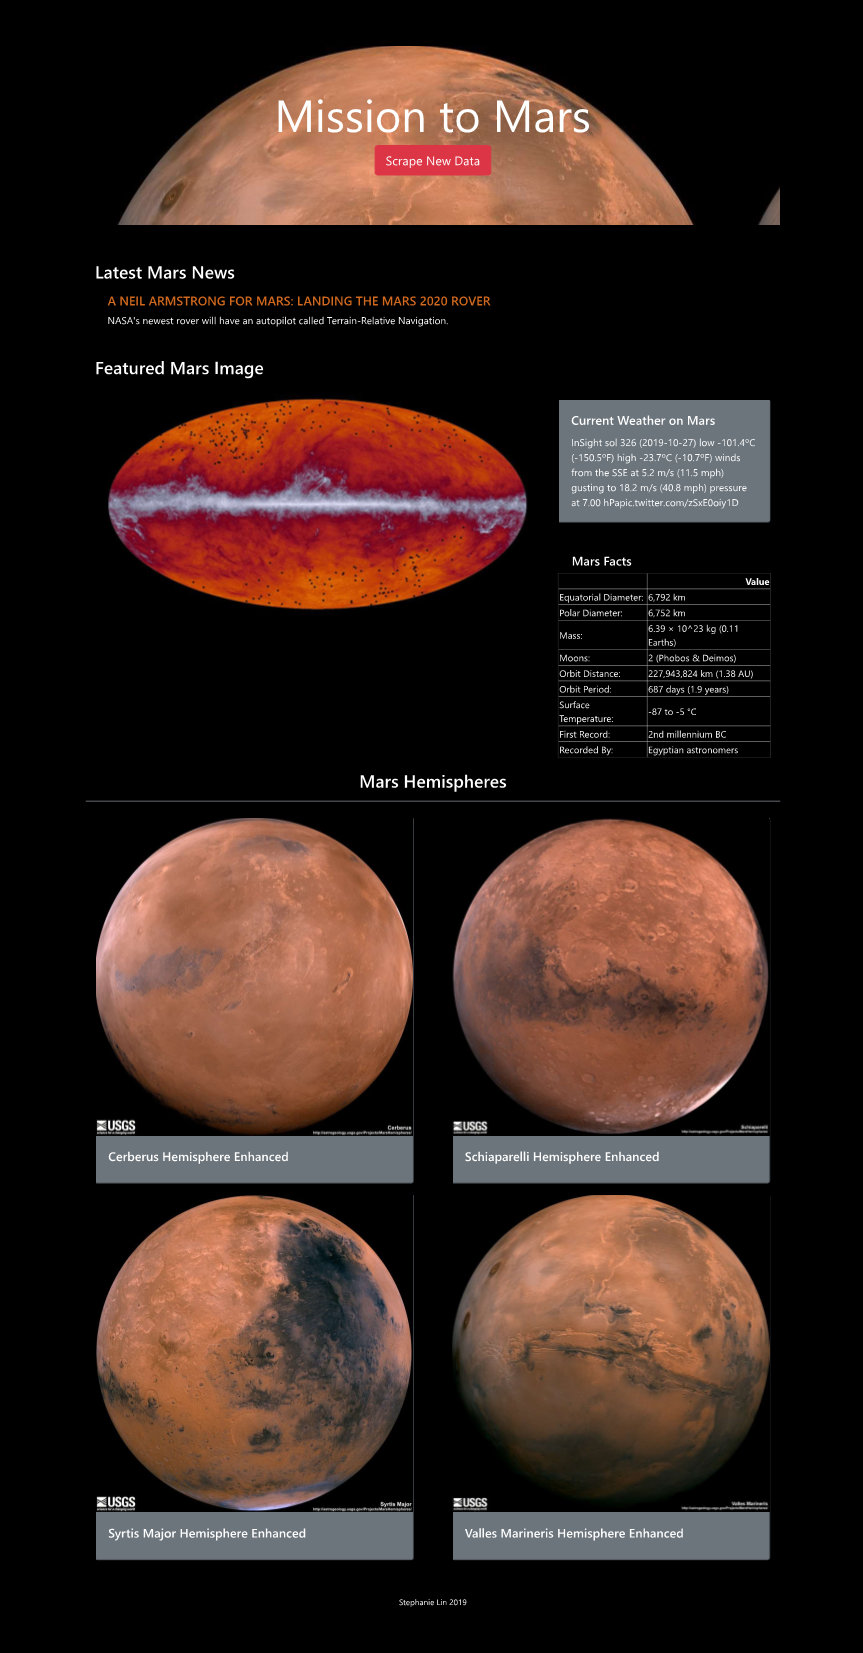
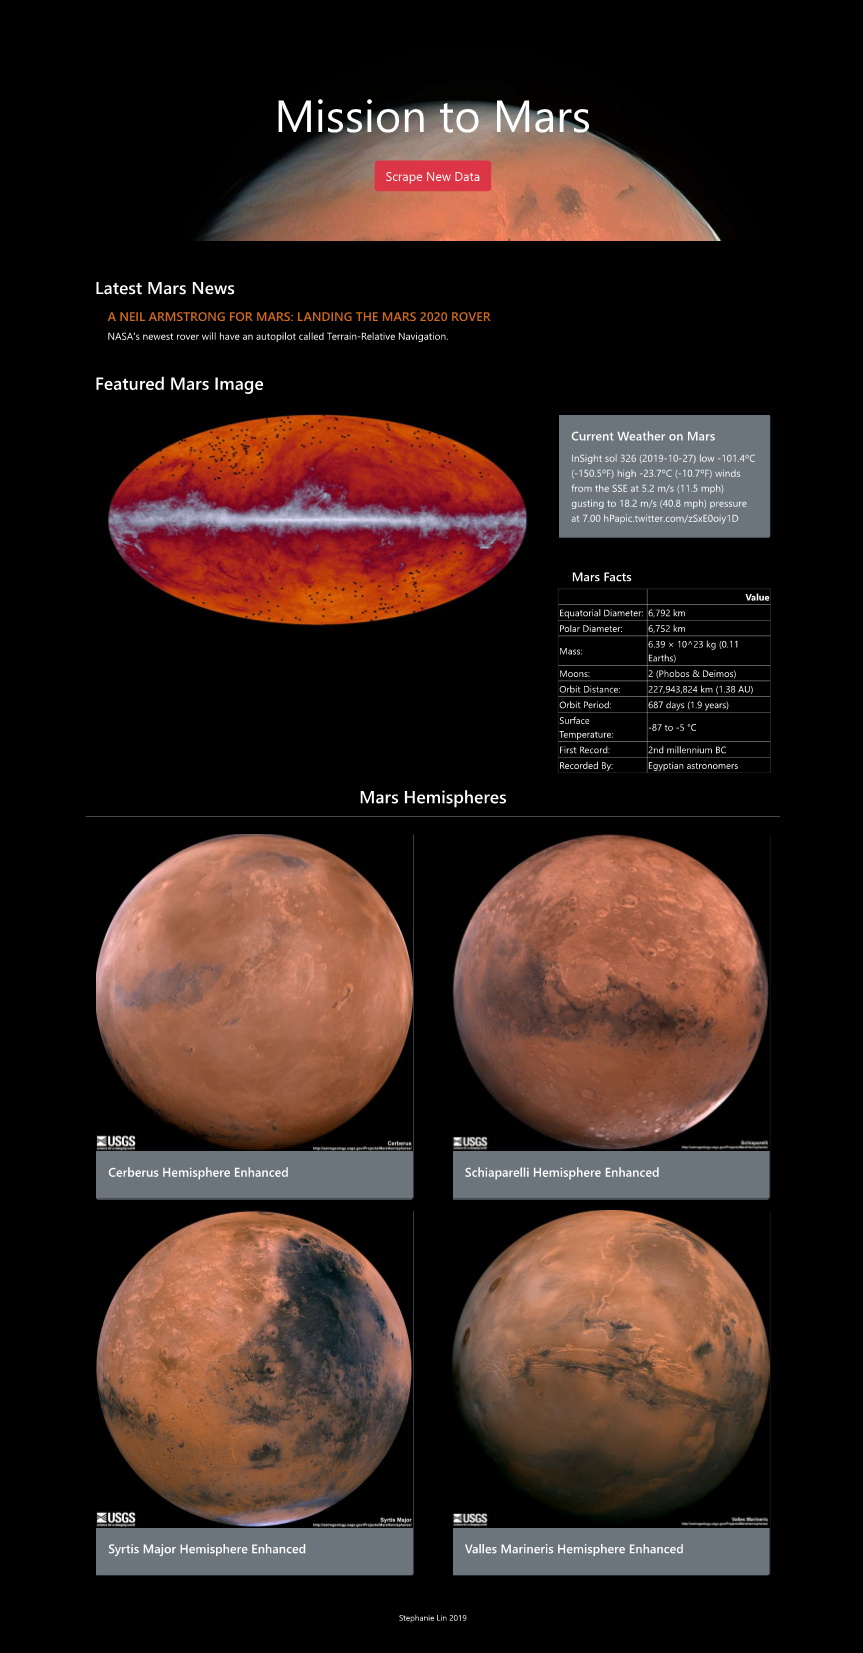
html image settings updated

Changed region(s): [[0.0904, 0.0309, 0.9038, 0.9873], [0.8737, 0.1234, 0.9038, 0.1543], [0.2711, 0.5554, 0.3013, 0.5862]]

diff --git a/12-Mission-to-Mars/templates/index.html b/12-Mission-to-Mars/templates/index.html
@@ -13,9 +13,9 @@
   <br>
   <div class="container">
     <div class="jumbotron jumbotron-fluid text-center"
-      style="background-image: url(https://astropedia.astrogeology.usgs.gov/download/Mars/Viking/valles_marineris_enhanced.tif/full.jpg);">
+      style="background-image: url(https://upload.wikimedia.org/wikipedia/commons/thumb/0/02/OSIRIS_Mars_true_color.jpg/1200px-OSIRIS_Mars_true_color.jpg);">
       <h1 class="display-3" style="color: white"><strong>Mission to Mars</strong></h1>
-      <p><a class="btn btn-danger btn-lg" href="/scrape" role="button">Scrape New Data</a></p>
+      <p style="padding-top:25px;"><a class="btn btn-danger btn-lg" href="/scrape" role="button">Scrape New Data</a></p>
     </div>
   </div>
 
